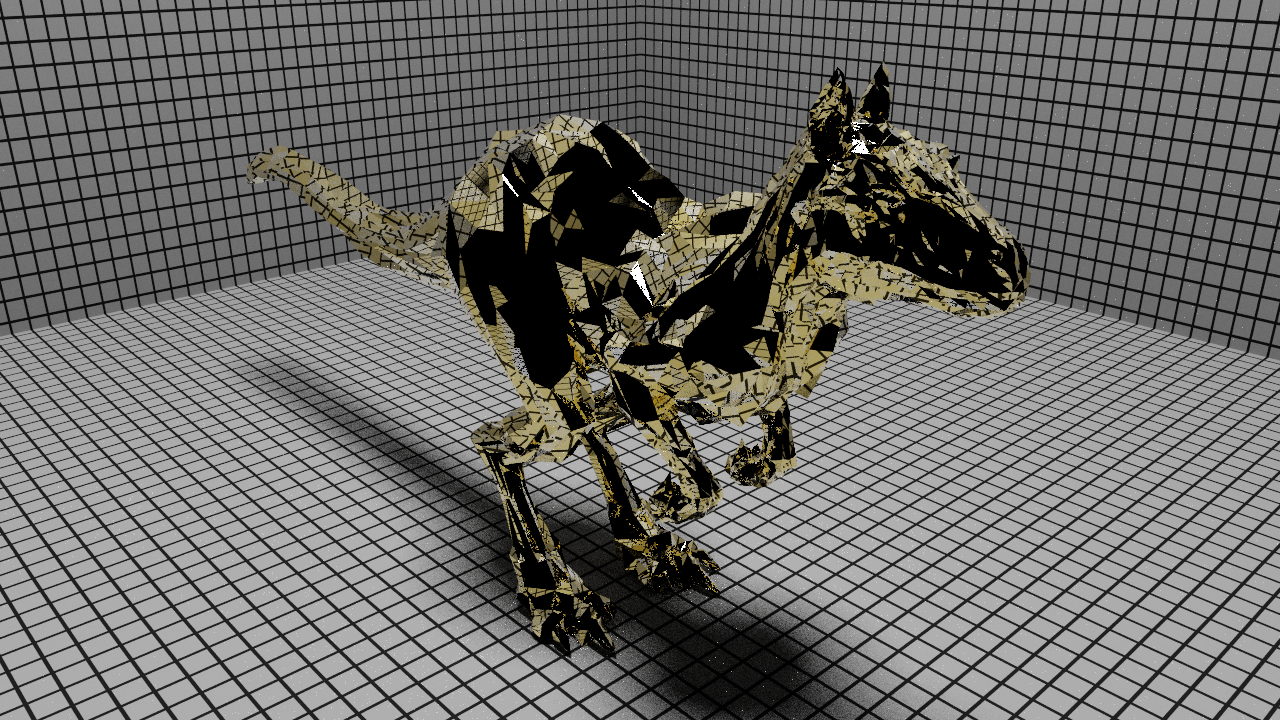
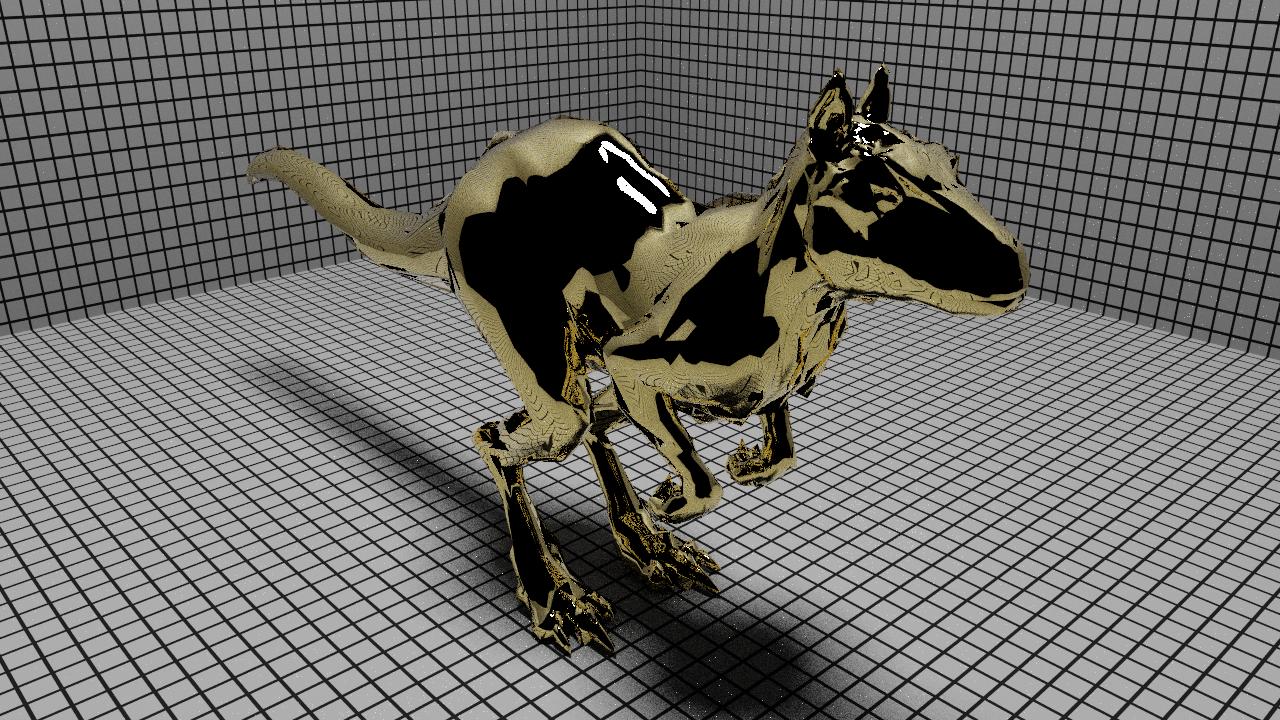
fix(scene_compiler): smooth shading normals for loopsubdiv passthrough
The loopsubdiv base-mesh passthrough emitted no vertex normals, so the
renderer flat-shaded each face; under the smooth mirror clearcoat this
produced a hard black/gold "shattered" killeroo. Generates area-weighted
smooth per-vertex normals from the base control mesh (scoped to
loopsubdiv only — flat meshes like the tessellated disk keep flat
normals) and injects them as N so the surface shades smoothly. The
killeroo now reads as a smooth glossy gold/black coated creature.
Loop subdivision is still not applied (silhouette stays base-mesh
resolution); only the shading is smoothed.

Refreshes docs/architecture/killeroo-coated.png and the per-scene
README degradation note. 250 unit tests + 9 CTest pass.

Changed region(s): [[0.1875, 0.0917, 0.8125, 0.9167]]

diff --git a/tests/scene_compiler_loopsubdiv_tests.cpp b/tests/scene_compiler_loopsubdiv_tests.cpp
@@ -1,10 +1,12 @@
 #include "yr_test.hpp"
 
 #include <yaoray/core/diagnostic.hpp>
+#include <yaoray/core/vec.hpp>
 #include <yaoray/pbrt/pbrt_scene.hpp>
 #include <yaoray/render/render_scene.hpp>
 #include <yaoray/render/scene_compiler.hpp>
 
+#include <cmath>
 #include <cstddef>
 #include <string>
 #include <vector>
@@ -142,4 +144,155 @@ YR_TEST(scene_compiler_loopsubdiv_missing_indices_warns) {
         HasDiagnosticContaining(result.diagnostics, yr::DiagnosticSeverity::Warning, "requires P") ||
         HasDiagnosticContaining(result.diagnostics, yr::DiagnosticSeverity::Warning, "subdivision")
     );
+}
+
+// -----------------------------------------------------------------------
+// NEW: smooth vertex normal generation
+// -----------------------------------------------------------------------
+
+// A loopsubdiv shape with no N param must produce has_normals == true
+// (smooth area-weighted vertex normals are synthesised from P + indices).
+YR_TEST(scene_compiler_loopsubdiv_generates_normals_when_none_provided) {
+    const yr::PbrtScene pbrt = MakeSceneWithLoopSubdiv(3);
+    const yr::SceneCompileResult result = yr::CompilePbrtScene(pbrt);
+
+    YR_EXPECT_TRUE(result.scene.has_value());
+    if (!result.scene.has_value()) return;
+    YR_EXPECT_TRUE(!result.scene->primitives.empty());
+    // The primitive must have has_normals true now that we synthesise them.
+    YR_EXPECT_TRUE(result.scene->primitives[0].has_normals);
+}
+
+// Every synthesised vertex normal must be (approximately) unit-length.
+YR_TEST(scene_compiler_loopsubdiv_generated_normals_are_unit_length) {
+    const yr::PbrtScene pbrt = MakeSceneWithLoopSubdiv(3);
+    const yr::SceneCompileResult result = yr::CompilePbrtScene(pbrt);
+
+    YR_EXPECT_TRUE(result.scene.has_value());
+    if (!result.scene.has_value()) return;
+    YR_EXPECT_TRUE(result.scene->primitives[0].has_normals);
+
+    // The tetrahedron has 4 vertices — check all normals are unit-length.
+    for (std::size_t vi = 0; vi < result.scene->vertices.size(); ++vi) {
+        const yr::Vec3f& n = result.scene->vertices[vi].normal;
+        const float len_sq = yr::Dot(n, n);
+        // Allow ±1e-4 tolerance around 1.0.
+        YR_EXPECT_TRUE(len_sq > 0.9998f && len_sq < 1.0002f);
+    }
+}
+
+// The apex vertex of a non-flat mesh (tetrahedron) must get a smooth normal
+// that differs from any single face normal (i.e., it IS an average).
+// We verify the apex (v2 = {0,1,0.707}) gets a normal with a dominant +Y
+// component (pointing "outward" in the averaging sense for that vertex).
+YR_TEST(scene_compiler_loopsubdiv_generated_normals_are_smooth_not_face_normals) {
+    // Build a simple 2-triangle "tent" (pyramid without a base) so we can
+    // reason about the exact normals: v0=(0,0,0), v1=(2,0,0), v2=(1,0,2),
+    // v3=(1,1,1) (apex above).  Two faces share the apex: (0,3,1) and (2,3,0)
+    // (and we add two more to make a closed shape, but two is enough to test).
+    // Simpler: use the tetrahedron from MakeSceneWithLoopSubdiv and just check
+    // that no vertex normal equals any single face's (unnormalised) cross product.
+
+    const yr::PbrtScene pbrt = MakeSceneWithLoopSubdiv(3);
+    const yr::SceneCompileResult result = yr::CompilePbrtScene(pbrt);
+
+    YR_EXPECT_TRUE(result.scene.has_value());
+    if (!result.scene.has_value()) return;
+    YR_EXPECT_TRUE(result.scene->primitives[0].has_normals);
+
+    // Positions from MakeSceneWithLoopSubdiv (object space == world space for identity CTM)
+    // v0=(1,0,-0.707) v1=(-1,0,-0.707) v2=(0,1,0.707) v3=(0,-1,0.707)
+    // Face 0: (0,1,2) => e1 = v1-v0 = (-2,0,0), e2 = v2-v0 = (-1,1,1.414)
+    //   fn0 = Cross(e1,e2) = (0*1.414 - 0*1, 0*(-1) - (-2)*1.414, (-2)*1 - 0*(-1))
+    //        = (0, 2.828, -2)
+    // Normalised fn0 ~ (0, 0.816, -0.578)
+    //
+    // Face 1: (0,2,3) => e1=v2-v0=(-1,1,1.414), e2=v3-v0=(-1,-1,1.414)
+    //   fn1 = Cross(e1,e2) = (1*1.414-1.414*(-1), 1.414*(-1)-(-1)*1.414, (-1)(-1)-1*(-1))
+    //        = (1.414+1.414, -1.414+1.414, 1+1) = (2.828, 0, 2)
+    // Normalised fn1 ~ (0.816, 0, 0.578)
+    //
+    // Vertex 0 is shared by faces 0,1,2(=(0,3,1)). Its smooth normal is the
+    // area-weighted average of those face normals.  Because it contributes to
+    // multiple faces, its normal CANNOT equal fn0 exactly.
+    //
+    // Simple test: vertex 0's normal Y component must be between the Y components
+    // of fn0 (0.816) and fn1 (0) and fn2, i.e. not equal to 0.816.
+    const yr::Vec3f& n0 = result.scene->vertices[0].normal;
+    // The averaged normal for v0 must not be identical to any single face normal.
+    // fn0 normalised is approximately (0, 0.816, -0.578). If the normal is smooth,
+    // n0.y should be strictly less than 0.816.
+    YR_EXPECT_TRUE(n0.y < 0.81f);
+}
+
+// A loopsubdiv with a FLAT mesh (all coplanar vertices) must yield normals equal
+// to the face normal — smoothing a flat mesh is a no-op.
+YR_TEST(scene_compiler_loopsubdiv_flat_mesh_normals_match_face_normal) {
+    // Build a flat quad (2 triangles) in the XY plane; all normals must be +Z.
+    yr::PbrtScene pbrt;
+    pbrt.source_path = "flat_loopsubdiv_test.pbrt";
+    pbrt.source_root = ".";
+    pbrt.film.type = "rgb";
+    pbrt.film.params.push_back(yr::PbrtParam{"integer", "xresolution", {}, {16}, {}, {}});
+    pbrt.film.params.push_back(yr::PbrtParam{"integer", "yresolution", {}, {16}, {}, {}});
+    pbrt.camera.type = "perspective";
+    pbrt.camera.params.push_back(yr::PbrtParam{"float", "fov", {45.0f}, {}, {}, {}});
+    pbrt.camera_transform = yr::Mat4f{};
+    pbrt.integrator.type = "path";
+    pbrt.sampler.type = "independent";
+
+    // Flat quad: 4 vertices, 2 triangles
+    std::vector<float> positions = {
+        0.0f, 0.0f, 0.0f,   // v0
+        1.0f, 0.0f, 0.0f,   // v1
+        1.0f, 1.0f, 0.0f,   // v2
+        0.0f, 1.0f, 0.0f,   // v3
+    };
+    std::vector<int> indices = { 0, 1, 2,  0, 2, 3 };
+
+    yr::PbrtShapeRecord record;
+    record.shape.type = "loopsubdiv";
+    record.shape.params.push_back(yr::PbrtParam{"integer", "levels", {}, {1}, {}, {}});
+    record.shape.params.push_back(yr::PbrtParam{"point3", "P", positions, {}, {}, {}});
+    record.shape.params.push_back(yr::PbrtParam{"integer", "indices", {}, indices, {}, {}});
+    record.object_to_world = yr::Mat4f{};
+    pbrt.shapes.push_back(record);
+
+    const yr::SceneCompileResult result = yr::CompilePbrtScene(pbrt);
+    YR_EXPECT_TRUE(result.scene.has_value());
+    if (!result.scene.has_value()) return;
+    YR_EXPECT_TRUE(result.scene->primitives[0].has_normals);
+
+    // All normals must point in +Z (0, 0, 1) since the quad is in the XY plane.
+    for (std::size_t vi = 0; vi < result.scene->vertices.size(); ++vi) {
+        const yr::Vec3f& n = result.scene->vertices[vi].normal;
+        // Allow ±0.001 tolerance
+        YR_EXPECT_TRUE(std::fabs(n.x) < 0.001f);
+        YR_EXPECT_TRUE(std::fabs(n.y) < 0.001f);
+        YR_EXPECT_TRUE(n.z > 0.999f);
+    }
+}
+
+// If a loopsubdiv ALREADY provides N, it is left untouched (not re-synthesised).
+YR_TEST(scene_compiler_loopsubdiv_existing_N_is_preserved) {
+    yr::PbrtScene pbrt = MakeSceneWithLoopSubdiv(1);
+    // Inject explicit per-vertex normals (all pointing in +Z) — synthetic sentinel.
+    std::vector<float> explicit_normals(4 * 3, 0.0f);
+    // v0..v3 all get (0, 0, 1) — an obviously synthetic value.
+    for (int i = 0; i < 4; ++i) explicit_normals[i * 3 + 2] = 1.0f;
+    pbrt.shapes[0].shape.params.push_back(
+        yr::PbrtParam{"normal", "N", explicit_normals, {}, {}, {}});
+
+    const yr::SceneCompileResult result = yr::CompilePbrtScene(pbrt);
+    YR_EXPECT_TRUE(result.scene.has_value());
+    if (!result.scene.has_value()) return;
+    YR_EXPECT_TRUE(result.scene->primitives[0].has_normals);
+
+    // All normals must still be (0,0,1) — the explicit normals, NOT re-smoothed.
+    for (std::size_t vi = 0; vi < result.scene->vertices.size(); ++vi) {
+        const yr::Vec3f& n = result.scene->vertices[vi].normal;
+        YR_EXPECT_TRUE(std::fabs(n.x) < 0.001f);
+        YR_EXPECT_TRUE(std::fabs(n.y) < 0.001f);
+        YR_EXPECT_TRUE(n.z > 0.999f);
+    }
 }

diff --git a/src/render/scene_compiler.cpp b/src/render/scene_compiler.cpp
@@ -972,12 +972,57 @@ bool CompileSphereShape(
     return true;
 }
 
+// Compute area-weighted smooth per-vertex normals in object space.
+// P is a flat array of [x,y,z,...] with P.size()/3 vertices.
+// indices is a flat array of triangle vertex indices (size must be divisible by 3).
+// Returns a flat array [nx0,ny0,nz0, nx1,ny1,nz1, ...] of the same vertex count,
+// each normalized.  Degenerate accumulators (zero-area neighbourhood) fall back
+// to Vec3f{0, 0, 1}.
+std::vector<float> ComputeSmoothVertexNormals(
+    const std::vector<float>& P,
+    const std::vector<int>& indices
+) {
+    const std::size_t vcount = P.size() / 3;
+    const std::size_t tcount = indices.size() / 3;
+
+    // Accumulate un-normalised (area-weighted) face normals into each vertex.
+    std::vector<Vec3f> accum(vcount, Vec3f{0.0f, 0.0f, 0.0f});
+    for (std::size_t ti = 0; ti < tcount; ++ti) {
+        const int i0 = indices[ti * 3 + 0];
+        const int i1 = indices[ti * 3 + 1];
+        const int i2 = indices[ti * 3 + 2];
+        const Vec3f p0{P[i0 * 3], P[i0 * 3 + 1], P[i0 * 3 + 2]};
+        const Vec3f p1{P[i1 * 3], P[i1 * 3 + 1], P[i1 * 3 + 2]};
+        const Vec3f p2{P[i2 * 3], P[i2 * 3 + 1], P[i2 * 3 + 2]};
+        // Un-normalised cross product: magnitude = 2 * triangle area => natural area weighting.
+        const Vec3f fn = Cross(p1 - p0, p2 - p0);
+        accum[i0] = accum[i0] + fn;
+        accum[i1] = accum[i1] + fn;
+        accum[i2] = accum[i2] + fn;
+    }
+
+    // Normalize each accumulator; fall back to {0,0,1} for degenerate vertices.
+    std::vector<float> result(vcount * 3);
+    for (std::size_t vi = 0; vi < vcount; ++vi) {
+        Vec3f n = accum[vi];
+        if (LengthSquared(n) < 1.0e-12f) {
+            n = Vec3f{0.0f, 0.0f, 1.0f};
+        } else {
+            n = Normalize(n);
+        }
+        result[vi * 3 + 0] = n.x;
+        result[vi * 3 + 1] = n.y;
+        result[vi * 3 + 2] = n.z;
+    }
+    return result;
+}
+
 // Pass through a PBRT v4 Shape "loopsubdiv" as a base-mesh trianglemesh.
 // Full Loop subdivision is out of scope (M3 Slice 3); the base control mesh
-// (level 0) is used as-is. A Warning is emitted so users know the surface is
-// faceted rather than smooth. The P and indices params have the same layout as
-// trianglemesh, so CompileTriangleMeshShape handles the actual triangle emission
-// after we rewrite the shape type.
+// (level 0) is used as-is.  If the directive provides no N param, smooth
+// area-weighted vertex normals are synthesised from P + indices so the surface
+// shades smoothly rather than faceted — approximating the limit-surface normals.
+// A Warning is emitted so users know subdivision levels are not applied.
 bool CompileLoopSubdivShape(
     const PbrtShapeRecord& record,
     int material_index,
@@ -998,12 +1043,22 @@ bool CompileLoopSubdivShape(
 
     diagnostics.push_back(Warning(scene, "Shape.loopsubdiv",
         "loopsubdiv shape: subdivision levels not applied (out of scope); "
-        "rendering base control mesh as faceted trianglemesh"));
+        "rendering the base control mesh with generated smooth (area-weighted) shading normals"));
 
     // Reuse CompileTriangleMeshShape by constructing a trianglemesh-type record
     // that carries the same P/indices (and optional N) parameters.
     PbrtShapeRecord tri_record = record;
     tri_record.shape.type = "trianglemesh";
+
+    // If no per-vertex normals are provided, synthesise smooth ones.
+    const PbrtParam* n_param = FindParam(tri_record.shape.params, "N");
+    const std::size_t vcount = p_param->floats.size() / 3;
+    if (n_param == nullptr || n_param->floats.size() != vcount * 3) {
+        std::vector<float> smooth_normals =
+            ComputeSmoothVertexNormals(p_param->floats, indices_param->ints);
+        tri_record.shape.params.push_back(
+            PbrtParam{"normal", "N", std::move(smooth_normals), {}, {}, {}});
+    }
 
     return CompileTriangleMeshShape(tri_record, material_index, ir, scene, diagnostics);
 }

diff --git a/scenes/pbrt/killeroo_coated/README.md b/scenes/pbrt/killeroo_coated/README.md
@@ -62,9 +62,10 @@ then revert.
   patch). The disk area light (r=150, z=800, L=[50,50,50]) is the scene's
   primary key light; it is now a fully emissive primitive.
 - `Shape "loopsubdiv"` compiles the base-mesh control vertices and faces directly
-  to a `trianglemesh`, giving the killeroo at base-mesh resolution with correct
-  silhouette and gold coated material (M3 Slice 3 patch). See *Documented
-  degradations* for the visual consequence.
+  to a `trianglemesh` with generated smooth area-weighted vertex normals, giving
+  the killeroo a smooth glossy coated surface at base-mesh silhouette resolution
+  (M3 Slice 3 patch + smooth-normals fix). See *Documented degradations* for
+  remaining limitations.
 - `"spectrum" conductor.eta / conductor.k` with SPD filenames (`Au.eta.spd`,
   `Au.k.spd`) are recognized and replaced with representative RGB eta/k values
   from a small static metal table (M3 Slice 3 patch). The result reads
@@ -84,20 +85,23 @@ A reference render at 1280×720 / 64 spp lives at
 a corner formed by a diffuse floor and two white walls, lit by the large
 overhead disk area light. The gold clearcoat surface shows a visible Fresnel
 highlight on the upper surfaces and smooth specular reflection where the coat
-faces the light. The base mesh's faceted silhouette (no Loop subdivision) is
-visible at the extremities.
+faces the light; surface shading is smooth (generated area-weighted vertex
+normals). The silhouette remains at base-mesh resolution (no Loop subdivision
+detail), so profile edges are coarser than a fully subdivided mesh.
 
 ## Documented degradations (killeroo-coated-specific)
 
 These are graceful degradations with Warnings emitted at compile or parse time.
 None block rendering; they affect specific visual aspects.
 
-- **`Shape "loopsubdiv"` → faceted base-mesh trianglemesh**: Loop subdivision
-  is out of scope for M3 Slice 3. The control-mesh vertices and faces are compiled
-  directly into a flat `trianglemesh` (equivalent to zero subdivision levels),
-  producing a faceted appearance on curved surfaces and extremities. A Warning is
-  emitted. *Render effect*: the killeroo silhouette is coarser than the intended
-  smooth subdivided mesh; material behaviour and lighting are otherwise correct.
+- **`Shape "loopsubdiv"` → base-mesh passthrough with smooth shading normals**:
+  Loop subdivision is still not applied (out of scope). The control-mesh vertices
+  and faces are compiled directly into a `trianglemesh`, BUT area-weighted smooth
+  per-vertex normals are generated from the base control mesh, so the coated
+  surface shades as a smooth glossy surface rather than hard facets. A Warning is
+  emitted. *Render effect*: the killeroo silhouette/profile remains at the coarser
+  base-mesh resolution (no added subdivision detail), but the surface itself reads
+  as smooth — no shattered-facet artefacts under the clearcoat.
 - **Au SPD files → RGB eta/k approximation**: SPD file parsing is out of scope.
   `conductor.eta` and `conductor.k` parameters that reference `spds/Au.*.spd`
   filenames are detected and replaced with representative RGB (eta, k) values for
